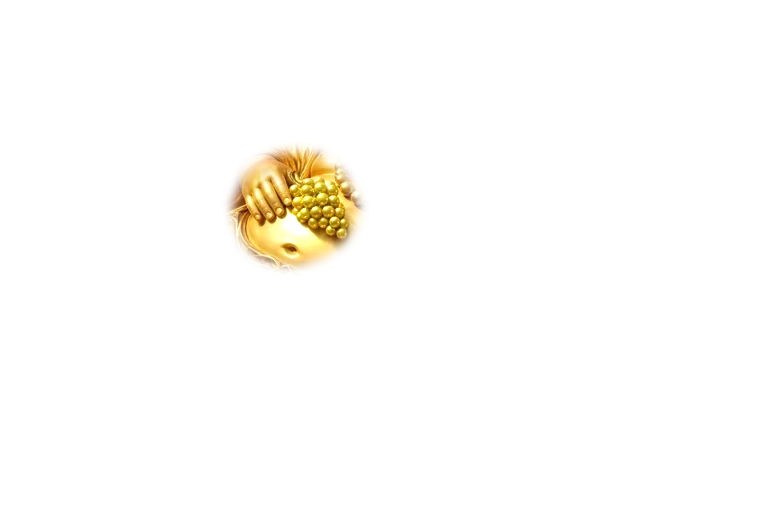
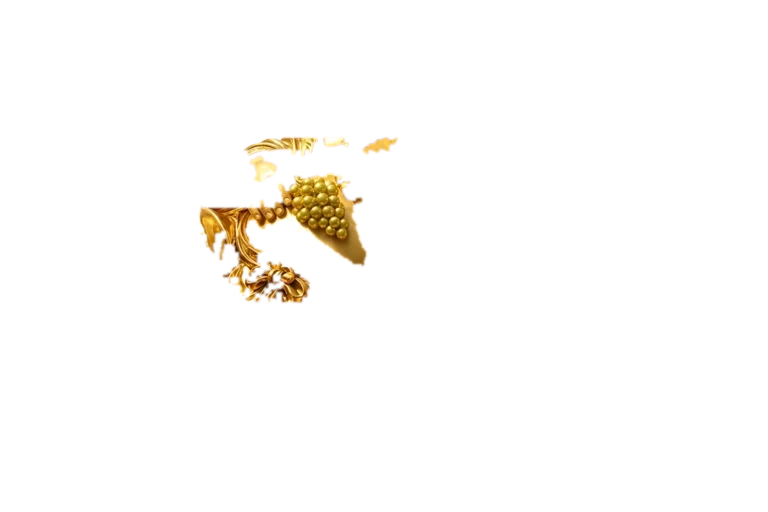
The belly patch stops being a polygon with a soft edge
The layer that brings the hand down to the grapes was a hand-drawn outline with a
5px feather, on the argument that a patch of the figure's own hand on its own
belly is the same gold either side of the cut so a soft edge would pass.
Measured, it does not: 1880 edge pixels crossing nothing but solid body, colour
changing across them by up to 94/255. A soft rectangle lying on the stomach.

Three attempts, and the first two are kept in the comments because they failed
instructively:

  1. The hand's outline, derived from rest-vs-base. The mask was right and the
     edge was still visible: the hand casts its own shadow, the shadow belongs
     to the hand, and a mask cut to the fingers ends inside a falloff where the
     two states disagree.
  2. That outline grown until its boundary reached quiet ground — judged against
     the BASE state, while inside the arm's footprint the plate is the
     light-matched body. Measured against the wrong picture the boundary looked
     quiet and the seam measured 172/255.

What works is not a shape question. THE PATCH IS THE PLATE, EXCEPT WHERE THE
HAND IS. It carries the plate's own pixels everywhere, so wherever it is not the
hand it composites the colour that was already there and is invisible; and its
boundary is DEFINED as the place where rest stops differing from the plate, so
the alpha ramp crosses two nearly identical colours. There is no edge to place
and so no edge to get wrong.
[…]

Changed region(s): [[0.25, 0.25, 0.5312, 0.5938]]

diff --git a/app/scripts/scene-parts.py b/app/scripts/scene-parts.py
@@ -140,6 +140,10 @@ def fill_holes(mask):
     return mask | (~seen)
 
 
+def pd_gt(arr, t):
+    return arr > t
+
+
 def blur_low(img, radius):
     return img.filter(ImageFilter.GaussianBlur(radius))
 
@@ -412,17 +416,62 @@ grapes_part = Image.merge("RGBA", (*base_q.convert("RGB").split(),
                                    Image.fromarray((grapes_alpha * 255).round().astype(np.uint8))))
 
 # ── 4. the lowered arm, from the rest state ─────────────────────────────────
-# Cut generously and feathered: the patch is the figure's own hand on its own
-# belly in its own gold, so a soft edge is invisible where a hard one would be
-# a sticker. This one is NOT load-bearing for the resting picture — it is a
-# layer that appears when it is wanted — so its edge does not have to be exact.
-LOWER = [(240, 190), (248, 174), (262, 162), (280, 154), (302, 152), (322, 158),
-         (338, 172), (350, 190), (356, 208), (352, 226), (340, 242), (322, 254),
-         (300, 262), (278, 262), (258, 254), (246, 242), (238, 224), (234, 206)]
-lower_mask = Image.new("L", (W, H), 0)
-ImageDraw.Draw(lower_mask).polygon(LOWER, fill=255)
-lower_mask = dil(lower_mask, 1).filter(ImageFilter.GaussianBlur(5))
-lower_rgb = fill_rgb  # same light match as the plate's fill: one gold, one light
+# CUT FROM THE ARTWORK, not from a hand-drawn outline — and built so that its
+# boundary cannot be a seam at all.
+#
+# This layer shipped as a polygon with a 5px feather, on the argument that a
+# patch of the figure's own hand on its own belly is the same gold either side
+# of the cut, so a soft edge would pass. Measured, it does not: 1880 edge pixels
+# crossing nothing but solid body with the colour changing across them by up to
+# 94/255 — a soft rectangle lying on the stomach.
+#
+# Three attempts got here, and the first two are worth recording because they
+# failed in instructive ways:
+#
+#   1. The hand's outline, derived from rest-vs-base. The mask was right and the
+#      edge was still visible: the hand casts its OWN SHADOW, and the shadow
+#      belongs to the hand, so a mask cut to the fingers ends inside a falloff
+#      where the two states disagree.
+#   2. The same outline grown until its boundary reached "quiet ground" — but
+#      measured against the base state, while inside the arm's footprint the
+#      plate is the LIGHT-MATCHED body, not the base. Judged against the wrong
+#      picture the boundary looked quiet and the seam measured 172/255.
+#
+# What works is not a shape question at all. THE PATCH IS THE PLATE, EXCEPT
+# WHERE THE HAND IS. It carries the plate's own pixels everywhere, so wherever
+# it is not the hand it is invisible — it composites the colour that was already
+# there. And its boundary is DEFINED as the place where rest stops differing
+# from the plate: at that threshold the two are within a few units of each
+# other, so the alpha ramp from 0 to 1 crosses two nearly identical colours.
+# There is no edge to place, and so no edge to get wrong.
+_P = np.asarray(plate.convert("RGB")).astype(np.int16)
+_R = np.asarray(rest_q.convert("RGB")).astype(np.int16)
+_pd = np.abs(_R - _P).max(axis=2)
+
+LOWER_BOX = (200, 138, 404, 302)
+lower_box = np.zeros((H, W), bool)
+lower_box[LOWER_BOX[1]:LOWER_BOX[3], LOWER_BOX[0]:LOWER_BOX[2]] = True
+
+# The hand, its grapes and their shadow: everything in the lower frame the rest
+# state has that the plate does not.
+hand = (pd_gt(_pd, 26)) & lower_box & (A_rq > 0.05)
+hand_img = ero(dil(Image.fromarray((hand * 255).astype(np.uint8)), 2), 2)
+_lab, _n = components(np.asarray(hand_img) > 128)
+if _n:
+    _sizes = np.bincount(_lab.ravel())
+    _keep = np.isin(_lab, np.where(_sizes >= 120)[0][1:])
+    hand_img = Image.fromarray((_keep * 255).astype(np.uint8))
+hand = fill_holes(np.asarray(hand_img) > 128)
+
+# Measured, not asserted: how far apart the two colours are along the boundary
+# the threshold just drew. This is the number that says whether an edge can be
+# seen, and it is the number the first two attempts did not check.
+_hb = hand & ~(np.asarray(ero(Image.fromarray((hand * 255).astype(np.uint8)), 1)) > 128)
+_boundary_delta = int(_pd[_hb].max()) if _hb.any() else 0
+
+lower_mask = Image.fromarray((hand * 255).astype(np.uint8)).filter(ImageFilter.GaussianBlur(1.0))
+# The colour: the plate's own, replaced by the rest state's where the hand is.
+lower_rgb = np.where(hand[:, :, None], _R.astype(np.float32), _P.astype(np.float32))
 lowered = Image.merge("RGBA", (*[Image.fromarray(lower_rgb[:, :, c].astype(np.uint8)) for c in range(3)],
                                Image.fromarray((A_rq * 255).round().astype(np.uint8))))
 lowered.putalpha(ImageChops.multiply(lowered.getchannel("A"), lower_mask))
@@ -573,6 +622,23 @@ for _deg in (7, 15):
     _ys, _xs = np.where(_gap)
     print(f"   THE GAP at -{_deg}deg: {int(_gap.sum()):5d} px of body go see-through inside the figure"
           + (f"  bbox x[{_xs.min()}-{_xs.max()}] y[{_ys.min()}-{_ys.max()}]" if len(_xs) else ""))
+
+# 4c. THE BELLY PATCH, against the picture it exists to reproduce. The patch is
+#     not part of the resting pose (it appears only while the hand is down), so
+#     the recomposition above cannot judge it. What judges it is the rest state:
+#     hand on belly, same light, same figure. The first measurement of this used
+#     the change across the patch's own outline, which counts the hand's real
+#     silhouette as a defect — a hand against a belly is supposed to have an
+#     edge. Against the rest state, the only thing counted is what is actually
+#     wrong.
+_belly_on = plate.copy(); _belly_on.alpha_composite(lowered)
+_bx = (210, 150, 390, 290)
+_bd = np.abs(np.asarray(_belly_on.convert("RGB")).astype(np.int16)[_bx[1]:_bx[3], _bx[0]:_bx[2]]
+             - np.asarray(rest_q.convert("RGB")).astype(np.int16)[_bx[1]:_bx[3], _bx[0]:_bx[2]]).max(axis=2)
+print(f"   4c. the belly patch       vs the rest state: mean {_bd.mean():5.2f}  p99 {np.percentile(_bd, 99):4.0f}  "
+      f">32: {int((_bd > 32).sum()):5d} of {_bd.size}")
+print(f"        (the polygon build it replaces scored mean 13.57, p99 72, >32: 1535; "
+      f"no patch at all scores mean 27.92, >32: 5130)")
 
 # 5. THE SWING. The arm's own hole used to be where the grapes are: with the
 #    cluster handed to its own layer and the arm punched around it (`M & ~G`),
